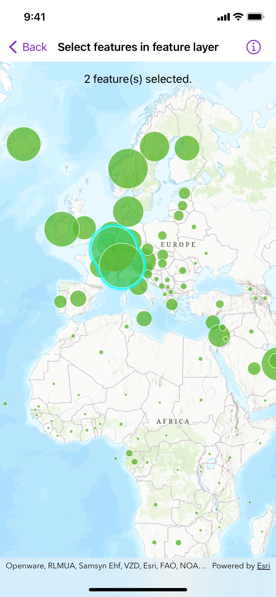
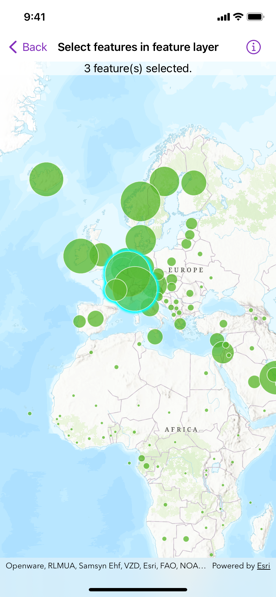
Update feature layer

diff --git a/Shared/Samples/Select features in feature layer/SelectFeaturesInFeatureLayerView.swift b/Shared/Samples/Select features in feature layer/SelectFeaturesInFeatureLayerView.swift
@@ -20,7 +20,12 @@ struct SelectFeaturesInFeatureLayerView: View {
     @State private var selectedFeatures = [Feature]()
     
     /// A feature layer.
-    @State private var featureLayer = makeFeatureLayer()
+    @State private var featureLayer = FeatureLayer(
+        item: PortalItem(
+            portal: .arcGISOnline(isLoginRequired: false),
+            id: .gdpPerCapita
+        )
+    )
     
     /// A Boolean value indicating whether to show an alert.
     @State private var showAlert = false
@@ -30,13 +35,6 @@ struct SelectFeaturesInFeatureLayerView: View {
     
     /// A map with a topographic basemap style and initial viewpoint.
     @StateObject private var map = makeMap()
-    
-    /// Creates a feature layer.
-    private static func makeFeatureLayer() -> FeatureLayer {
-        let featureServiceURL = URL(string: "https://services1.arcgis.com/4yjifSiIG17X0gW4/arcgis/rest/services/GDP_per_capita_1960_2016/FeatureServer/0")!
-        let featureTable = ServiceFeatureTable(url: featureServiceURL)
-        return FeatureLayer(featureTable: featureTable)
-    }
     
     /// Creates a map.
     private static func makeMap() -> Map {
@@ -75,8 +73,10 @@ struct SelectFeaturesInFeatureLayerView: View {
     private func handleSelection(for mapViewProxy: MapViewProxy, at screenPoint: CGPoint) {
         Task {
             do {
-                // Saves the results from the identify method on
-                // the map view proxy.
+                // Unselects the selected features.
+                featureLayer.unselect(features: selectedFeatures)
+                
+                // Saves the results from the identify method on the map view proxy.
                 let results = try await mapViewProxy.identify(
                     layer: featureLayer,
                     screenPoint: screenPoint,
@@ -84,11 +84,7 @@ struct SelectFeaturesInFeatureLayerView: View {
                     maximumResults: 10
                 )
                 
-                // Unselects the selected features.
-                featureLayer.unselect(features: selectedFeatures)
-                
-                // Updates the selected features to
-                // the geo elements from the results.
+                // Updates the selected features to the geo elements from the results.
                 selectedFeatures = results.geoElements as! [Feature]
                 
                 // Selects the features from the selected features array.
@@ -123,4 +119,6 @@ struct SelectFeaturesInFeatureLayerView_Previews: PreviewProvider {
     static var previews: some View {
         SelectFeaturesInFeatureLayerView()
     }
+private extension PortalItem.ID {
+    static let gdpPerCapita = Self("10d76a5b015647279b165f3a64c2524f")!
 }

diff --git a/Shared/Samples/Select features in feature layer/README.md b/Shared/Samples/Select features in feature layer/README.md
@@ -30,7 +30,7 @@ Tap on a feature in the map. All features within a given tolerance (in pixels) o
 
 ## About the data
 
-This sample uses the [Gross Domestic Product, 1960-2016](https://www.arcgis.com/home/item.html?id=0c4b6b70a56b40b08c5b0420c570a6ac) feature service. Only the 2016 GDP values are shown.
+This sample uses the [Gross Domestic Product Per Capita, 1960-2016](https://www.arcgis.com/home/item.html?id=10d76a5b015647279b165f3a64c2524f) feature service. Only the 2016 GDP values are shown.
 
 ## Tags
 
